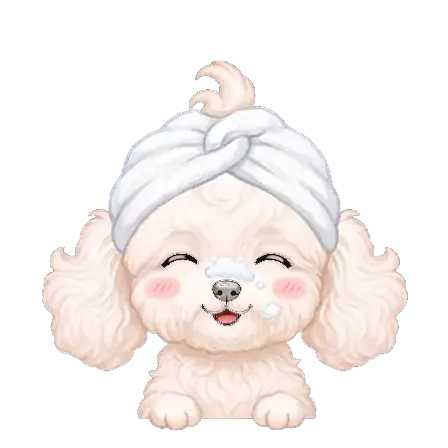
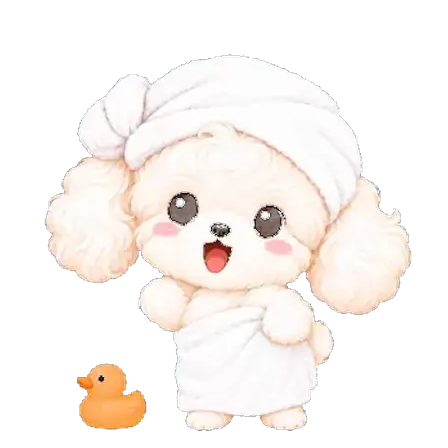
따끈따끈: '씻고 올게'(bath) 새 버전 교체 — 수건+고무오리 재작업 + 캐시버스터 ?v=2
사이담이 같은 파일명으로 그림 개선(덮어씀). ?v=2로 기기 캐시 무효화(안 하면 옛 그림 계속 씀).

Changed region(s): [[0.0938, 0.125, 0.9375, 0.9688], [0.2188, 0.2188, 0.25, 0.2812], [0.125, 0.375, 0.1562, 0.4375]]

diff --git a/src/components/ChatPanel.tsx b/src/components/ChatPanel.tsx
@@ -136,7 +136,7 @@ const ANIM_STICKERS: { word: string; image: string; still: string }[] = [
   { word: '삐짐',       image: '/emo/sai-anim/sulk.webp',    still: '/emo/sai-anim/sulk-still.png' },
   { word: '미안해',     image: '/emo/sai-anim/sorry.webp',   still: '/emo/sai-anim/sorry-still.png' },
   { word: '잘자',       image: '/emo/sai-anim/night.webp',   still: '/emo/sai-anim/night-still.png' },
-  { word: '씻고 올게',  image: '/emo/sai-anim/bath.webp',    still: '/emo/sai-anim/bath-still.png' },
+  { word: '씻고 올게',  image: '/emo/sai-anim/bath.webp?v=2',    still: '/emo/sai-anim/bath-still.png?v=2' },
   { word: '아파',       image: '/emo/sai-anim/sick.webp',    still: '/emo/sai-anim/sick-still.png' },
   { word: '좋아!',      image: '/emo/sai-anim/yay.webp',     still: '/emo/sai-anim/yay-still.png' },
   { word: '으악',       image: '/emo/sai-anim/yell.webp',    still: '/emo/sai-anim/yell-still.png' },
